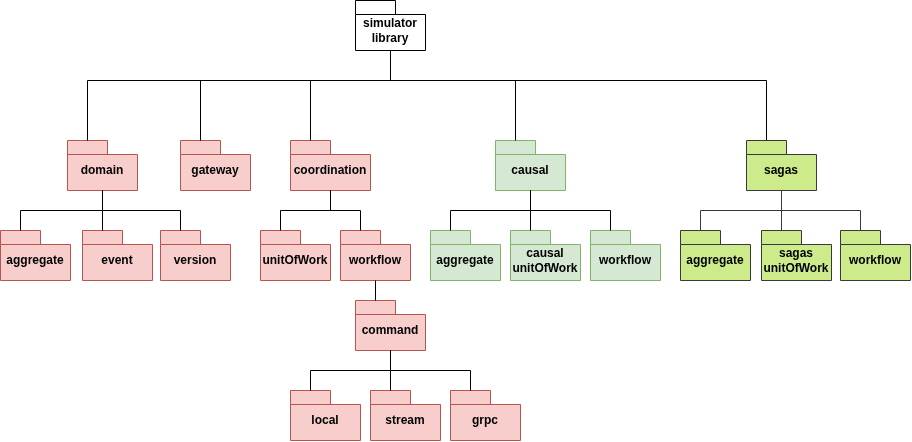
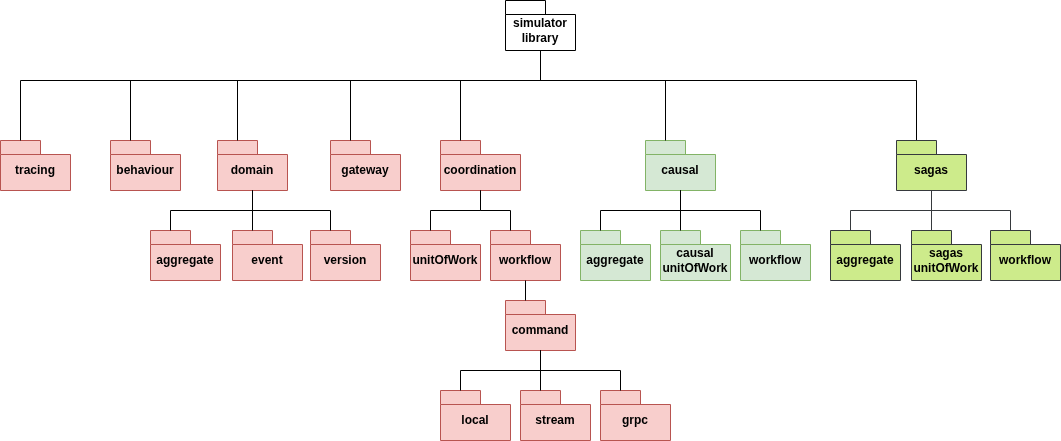
Refactor imports to replace `utils` package usage with `behaviour` and `tracing` packages, and update relevant class placements accordingly.

diff --git a/simulator/src/main/java/pt/ulisboa/tecnico/socialsoftware/ms/tracing/TraceManager.java b/simulator/src/main/java/pt/ulisboa/tecnico/socialsoftware/ms/tracing/TraceManager.java
@@ -1,15 +1,9 @@
-package pt.ulisboa.tecnico.socialsoftware.ms.utils;
+package pt.ulisboa.tecnico.socialsoftware.ms.tracing;
 
 import io.opentelemetry.api.GlobalOpenTelemetry;
 import io.opentelemetry.api.common.AttributeKey;
 import io.opentelemetry.api.common.Attributes;
-import io.opentelemetry.api.trace.Span;
-import io.opentelemetry.api.trace.SpanContext;
-import io.opentelemetry.api.trace.SpanKind;
-import io.opentelemetry.api.trace.StatusCode;
-import io.opentelemetry.api.trace.TraceFlags;
-import io.opentelemetry.api.trace.TraceState;
-import io.opentelemetry.api.trace.Tracer;
+import io.opentelemetry.api.trace.*;
 import io.opentelemetry.context.Context;
 import io.opentelemetry.exporter.otlp.trace.OtlpGrpcSpanExporter;
 import io.opentelemetry.sdk.OpenTelemetrySdk;

diff --git a/simulator/src/main/java/pt/ulisboa/tecnico/socialsoftware/ms/coordination/workflow/ExecutionPlan.java b/simulator/src/main/java/pt/ulisboa/tecnico/socialsoftware/ms/coordination/workflow/ExecutionPlan.java
@@ -3,10 +3,10 @@ package pt.ulisboa.tecnico.socialsoftware.ms.coordination.workflow;
 import io.opentelemetry.api.trace.Span;
 import org.slf4j.Logger;
 import org.slf4j.LoggerFactory;
+import pt.ulisboa.tecnico.socialsoftware.ms.behaviour.BehaviourHandler;
 import pt.ulisboa.tecnico.socialsoftware.ms.coordination.unitOfWork.UnitOfWork;
 import pt.ulisboa.tecnico.socialsoftware.ms.exception.SimulatorException;
-import pt.ulisboa.tecnico.socialsoftware.ms.utils.BehaviourHandler;
-import pt.ulisboa.tecnico.socialsoftware.ms.utils.TraceManager;
+import pt.ulisboa.tecnico.socialsoftware.ms.tracing.TraceManager;
 
 import java.util.*;
 import java.util.concurrent.CompletableFuture;

diff --git a/simulator/src/main/java/pt/ulisboa/tecnico/socialsoftware/ms/coordination/workflow/Workflow.java b/simulator/src/main/java/pt/ulisboa/tecnico/socialsoftware/ms/coordination/workflow/Workflow.java
@@ -5,8 +5,7 @@ import org.slf4j.LoggerFactory;
 import pt.ulisboa.tecnico.socialsoftware.ms.coordination.unitOfWork.UnitOfWork;
 import pt.ulisboa.tecnico.socialsoftware.ms.coordination.unitOfWork.UnitOfWorkService;
 import pt.ulisboa.tecnico.socialsoftware.ms.exception.SimulatorException;
-import pt.ulisboa.tecnico.socialsoftware.ms.sagas.workflow.SagaStep;
-import pt.ulisboa.tecnico.socialsoftware.ms.utils.TraceManager;
+import pt.ulisboa.tecnico.socialsoftware.ms.tracing.TraceManager;
 
 import java.util.ArrayList;
 import java.util.HashMap;

diff --git a/simulator/src/main/java/pt/ulisboa/tecnico/socialsoftware/ms/sagas/unitOfWork/SagaUnitOfWork.java b/simulator/src/main/java/pt/ulisboa/tecnico/socialsoftware/ms/sagas/unitOfWork/SagaUnitOfWork.java
@@ -5,7 +5,7 @@ import org.slf4j.LoggerFactory;
 import org.springframework.context.annotation.Profile;
 import pt.ulisboa.tecnico.socialsoftware.ms.coordination.unitOfWork.UnitOfWork;
 import pt.ulisboa.tecnico.socialsoftware.ms.sagas.aggregate.SagaAggregate.SagaState;
-import pt.ulisboa.tecnico.socialsoftware.ms.utils.TraceManager;
+import pt.ulisboa.tecnico.socialsoftware.ms.tracing.TraceManager;
 
 import java.util.*;
 import java.util.concurrent.CompletableFuture;

diff --git a/simulator/src/main/java/pt/ulisboa/tecnico/socialsoftware/ms/coordination/webapi/TracesController.java b/simulator/src/main/java/pt/ulisboa/tecnico/socialsoftware/ms/coordination/webapi/TracesController.java
@@ -5,7 +5,7 @@ import org.springframework.http.ResponseEntity;
 import org.springframework.web.bind.annotation.GetMapping;
 import org.springframework.web.bind.annotation.RequestParam;
 import org.springframework.web.bind.annotation.RestController;
-import pt.ulisboa.tecnico.socialsoftware.ms.utils.TraceService;
+import pt.ulisboa.tecnico.socialsoftware.ms.tracing.TraceService;
 
 @RestController
 public class TracesController {

diff --git a/simulator/src/main/java/pt/ulisboa/tecnico/socialsoftware/ms/coordination/webapi/BehaviourController.java b/simulator/src/main/java/pt/ulisboa/tecnico/socialsoftware/ms/coordination/webapi/BehaviourController.java
@@ -5,7 +5,7 @@ import org.springframework.web.bind.annotation.GetMapping;
 import org.springframework.web.bind.annotation.PostMapping;
 import org.springframework.web.bind.annotation.RequestParam;
 import org.springframework.web.bind.annotation.RestController;
-import pt.ulisboa.tecnico.socialsoftware.ms.utils.BehaviourService;
+import pt.ulisboa.tecnico.socialsoftware.ms.behaviour.BehaviourService;
 
 import java.io.File;
 

diff --git a/simulator/src/main/java/pt/ulisboa/tecnico/socialsoftware/ms/behaviour/BehaviourService.java b/simulator/src/main/java/pt/ulisboa/tecnico/socialsoftware/ms/behaviour/BehaviourService.java
@@ -1,6 +1,7 @@
-package pt.ulisboa.tecnico.socialsoftware.ms.utils;
+package pt.ulisboa.tecnico.socialsoftware.ms.behaviour;
 
 import org.springframework.stereotype.Service;
+import pt.ulisboa.tecnico.socialsoftware.ms.tracing.TraceManager;
 
 import java.nio.file.Files;
 import java.nio.file.Path;

diff --git a/simulator/src/main/java/pt/ulisboa/tecnico/socialsoftware/ms/tracing/TraceService.java b/simulator/src/main/java/pt/ulisboa/tecnico/socialsoftware/ms/tracing/TraceService.java
@@ -1,4 +1,4 @@
-package pt.ulisboa.tecnico.socialsoftware.ms.utils;
+package pt.ulisboa.tecnico.socialsoftware.ms.tracing;
 
 import jakarta.annotation.PostConstruct;
 import org.springframework.beans.factory.annotation.Value;

diff --git a/simulator/src/main/java/pt/ulisboa/tecnico/socialsoftware/ms/behaviour/BehaviourGenerator.java b/simulator/src/main/java/pt/ulisboa/tecnico/socialsoftware/ms/behaviour/BehaviourGenerator.java
@@ -1,4 +1,4 @@
-package pt.ulisboa.tecnico.socialsoftware.ms.utils;
+package pt.ulisboa.tecnico.socialsoftware.ms.behaviour;
 
 import pt.ulisboa.tecnico.socialsoftware.ms.exception.SimulatorException;
 

diff --git a/simulator/src/main/java/pt/ulisboa/tecnico/socialsoftware/ms/behaviour/BehaviourHandler.java b/simulator/src/main/java/pt/ulisboa/tecnico/socialsoftware/ms/behaviour/BehaviourHandler.java
@@ -1,4 +1,4 @@
-package pt.ulisboa.tecnico.socialsoftware.ms.utils;
+package pt.ulisboa.tecnico.socialsoftware.ms.behaviour;
 
 import java.io.BufferedReader;
 import java.io.BufferedWriter;
